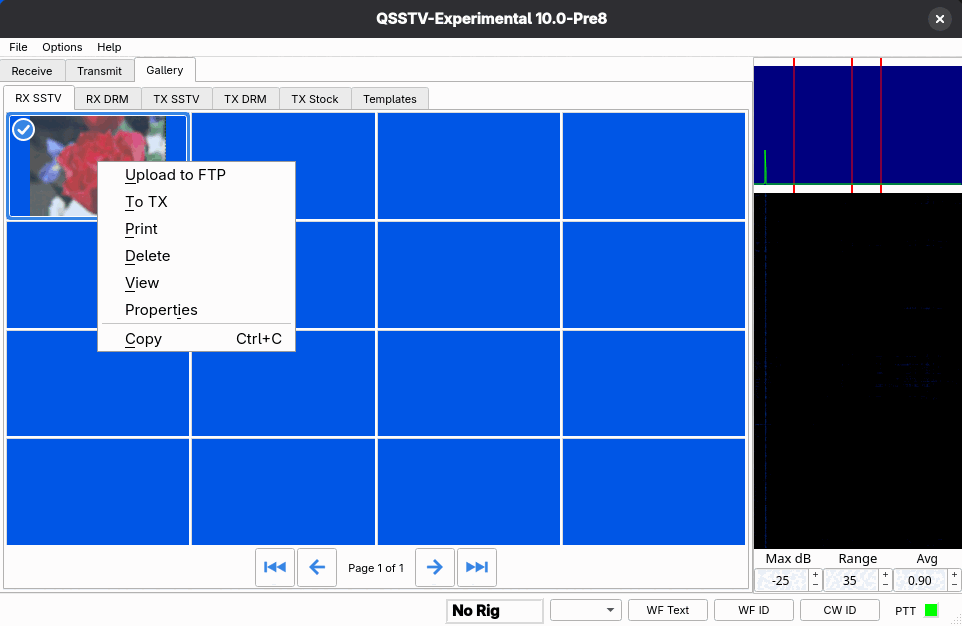
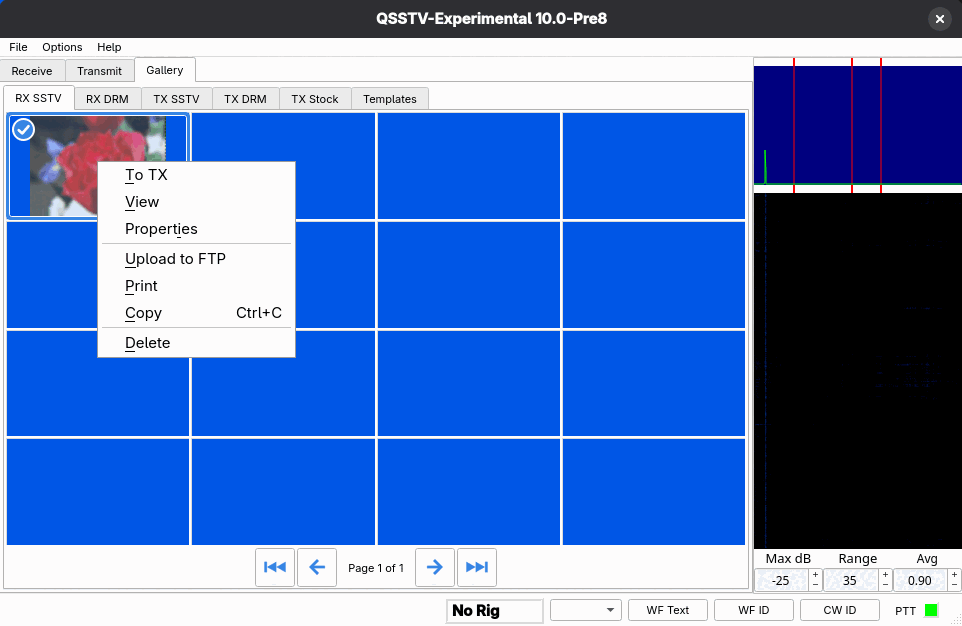
Group every picture right-click menu the same way
The other gallery tabs, the TX picture, the RX preview and the live RX picture got
the grouping the Templates menu has: make or change the picture; use and look at
it (To TX, View, Properties); send it somewhere (Upload to FTP, Print, Copy,
Paste); and Delete or Clear on its own at the bottom, so a slip of the mouse does
not delete anything. Load goes first on the TX picture and the RX preview (it sets
what they show) and with the file actions in the gallery (it adds a file to the
library). TX Stock starts with Edit picture. The menus are built from groups of
actions (a line between groups, never at an end or doubled).

tests/editor/app.sh checks the exact order of every menu and that no menu starts or
ends with a line or has two in a row, with Delete / Clear always last and alone (53
checks in all). The Gallery and Receive pages of the User's Guide describe the
pattern and the screenshot of the RX SSTV menu shows the new order.

Changed region(s): [[0.0936, 0.3642, 0.3119, 0.5767], [0.1247, 0.2732, 0.2495, 0.3339]]

diff --git a/documentation/userguide/pages/gallery.html b/documentation/userguide/pages/gallery.html
@@ -29,23 +29,31 @@ thumbnails is set in <a href="configuration.html#gui">Configuration &gt; Gui</a>
 through (first, previous, next and last page); the label shows <em>Page n of m</em>.</p>
 
 <h2>Right-click menu</h2>
-<figure><img src="../images/gallery-menu.png" alt="The gallery context menu with Upload to FTP, To TX, Print, Delete, View, Properties and Copy" loading="lazy"><figcaption>Right-click a thumbnail. The selection check mark is visible in its top-left corner.</figcaption></figure>
+<figure><img src="../images/gallery-menu.png" alt="The gallery context menu with To TX, View, Properties, then Upload to FTP, Print, Copy, and Delete at the bottom" loading="lazy"><figcaption>Right-click a thumbnail. The selection check mark is visible in its top-left corner.</figcaption></figure>
 
+<p>The menu is arranged in groups with a line between them, the same way on every tab: first the entries that make or change a picture, then the ones that use or look at it,
+then the ones that send it somewhere, and <span class="ui">Delete</span> on its own at the bottom.</p>
 <dl>
-<dt>Upload to FTP</dt><dd>Uploads the picture to the FTP server set up under <a href="configuration.html#ftp">FTP</a>.</dd>
 <dt>To TX</dt><dd>Loads the picture into the Transmit tab.</dd>
-<dt>Print</dt><dd>Prints the picture.</dd>
-<dt>Delete</dt><dd>Deletes the picture. By default you are asked to confirm; this can be changed in the Gui configuration page.</dd>
 <dt>View</dt><dd>Opens the picture in a viewer window. Use the mouse wheel to zoom smoothly and drag to pan.</dd>
 <dt>Properties</dt><dd>Shows file information about the picture.</dd>
+<dt>Upload to FTP</dt><dd>Uploads the picture to the FTP server set up under <a href="configuration.html#ftp">FTP</a> (received pictures).</dd>
+<dt>Print</dt><dd>Prints the picture.</dd>
 <dt>Copy (<kbd>Ctrl</kbd>+<kbd>C</kbd>)</dt><dd>Copies the picture to the clipboard. You can paste it, or a picture copied from anywhere else, into the
  Transmit tab or into TX Stock.</dd>
+<dt>Delete</dt><dd>Deletes the picture. By default you are asked to confirm; this can be changed in the Gui configuration page.</dd>
 </dl>
-<p>The menu differs a little between tabs; for example the TX Stock and Templates tabs offer <span class="ui">Load</span> and <span class="ui">Edit</span> in place of some of the entries above.
-<span class="ui">Edit picture</span> (TX Stock) opens a copy in your picture editor; on the Templates tab <span class="ui">Edit template</span> and <span class="ui">New template</span>
-open the <a href="template-editor.html">template editor</a>. See <a href="template-editor.html#pictures">Editing a picture</a>.</p>
-<p>The Templates menu is grouped: <span class="ui">New template</span> and <span class="ui">Edit template</span> first, then <span class="ui">To TX</span>, <span class="ui">View</span>
-and <span class="ui">Properties</span>, then <span class="ui">Load</span>, <span class="ui">Print</span> and <span class="ui">Copy</span>, and <span class="ui">Delete</span> on its own at the bottom.</p>
+<p>The menu differs a little between tabs, and the figure shows the RX SSTV tab:</p>
+<ul>
+<li><strong>TX SSTV and TX DRM:</strong> the same without <span class="ui">Upload to FTP</span>.</li>
+<li><strong>TX Stock</strong> starts with <span class="ui">Edit picture</span> (a copy is opened in your picture editor), and its third group is <span class="ui">Load</span> (add a picture from a file),
+ <span class="ui">Print</span>, <span class="ui">Copy</span> and <span class="ui">Paste</span> (add a picture from the clipboard).</li>
+<li><strong>Templates</strong> starts with <span class="ui">New template</span> and <span class="ui">Edit template</span>, which open the <a href="template-editor.html">template editor</a>; its third group is
+ <span class="ui">Load</span>, <span class="ui">Print</span> and <span class="ui">Copy</span>.</li>
+</ul>
+<p>The picture on the Transmit tab has its own menu in the same pattern: <span class="ui">Load</span> and <span class="ui">Edit picture</span>; <span class="ui">View</span>, <span class="ui">Properties</span> and
+<span class="ui">Reset zoom/pan</span>; <span class="ui">Print</span>, <span class="ui">Copy</span> and <span class="ui">Paste</span>; and <span class="ui">Delete</span>, which only takes the picture out of the transmit list (the file is kept).
+See <a href="template-editor.html#pictures">Editing a picture</a>.</p>
 
 <h2>Selecting several pictures</h2>
 <p>Click a thumbnail to select it; selected thumbnails are tinted and show a check mark. <kbd>Ctrl</kbd>+click adds or removes a single thumbnail and

diff --git a/documentation/userguide/pages/receive.html b/documentation/userguide/pages/receive.html
@@ -41,7 +41,7 @@
 </table>
 
 <h2 id="rightclick">Right-click menu</h2>
-<p>Right-click the picture for <span class="ui">View</span>, <span class="ui">Clear</span> and <span class="ui">Properties</span>. <span class="ui">Clear</span> does the same as the toolbar button.</p>
+<p>Right-click the picture for <span class="ui">View</span>, <span class="ui">Properties</span>, <span class="ui">Copy</span> and, on its own at the bottom, <span class="ui">Clear</span>, which does the same as the toolbar button.</p>
 
 <h2 id="sstv">SSTV settings</h2>
 <dl>

diff --git a/src/widgets/imageviewer.cpp b/src/widgets/imageviewer.cpp
@@ -604,95 +604,69 @@ void imageViewer::setType(thumbType tp)
       editAct->setText(tr("&Edit picture..."));
       editAct->setToolTip(tr("Edit a copy of this picture in your picture editor (Settings > GUI); the original is not changed"));
     }
+  // Every menu reads in groups, with a line between them: make or change the picture, use and look at it, send it somewhere, and
+  // remove it last on its own (so a slip of the mouse does not delete anything)
+  auto section=[this](std::initializer_list<QAction *> actions)
+  {
+    if(!popup->actions().isEmpty()) popup->addSeparator();
+    for(QAction *a : actions) popup->addAction(a);
+  };
   switch(tp)
     {
     case EXTVIEW:
-      popup->addAction(zoomInAct);
-      popup->addAction(zoomOutAct);
-      popup->addAction(propertiesAct);
+      section({zoomInAct,zoomOutAct,propertiesAct});
+      section({copyAct});
       break;
 
     case RXIMG:
-      popup->addAction(viewAct);
-      popup->addAction(clearAct);
-      popup->addAction(propertiesAct);
+      section({viewAct,propertiesAct});
+      section({copyAct});
+      section({clearAct});
       break;
 
     case TXIMG:
-      popup->addAction(loadAct);
-      popup->addAction(editAct);
-      popup->addAction(printAct);
-      popup->addAction(viewAct);
-      popup->addAction(propertiesAct);
-      popup->addAction(resetFramingAct);
-      popup->addAction(deleteAct);   // removes the image (or grid segment) from TX, the file is kept
+      // Delete takes the image (or grid segment) out of TX, the file is kept
+      section({loadAct,editAct});
+      section({viewAct,propertiesAct,resetFramingAct});
+      section({printAct,copyAct,pasteAct});
+      section({deleteAct});
       break;
 
     case PREVIEW:
-      popup->addAction(loadAct);
-      popup->addAction(toTXAct);
-      popup->addAction(viewAct);
-      popup->addAction(propertiesAct);
+      section({loadAct});
+      section({toTXAct,viewAct,propertiesAct});
+      section({copyAct});
       break;
 
     case RXSSTVTHUMB:
     case RXDRMTHUMB:
-      popup->addAction(uploadAct);
-      popup->addAction(toTXAct);
-      popup->addAction(printAct);
-      popup->addAction(deleteAct);
-      popup->addAction(viewAct);
-      popup->addAction(propertiesAct);
+      section({toTXAct,viewAct,propertiesAct});
+      section({uploadAct,printAct,copyAct});
+      section({deleteAct});
       break;
+
     case TXSSTVTHUMB:
     case TXDRMTHUMB:
-      popup->addAction(toTXAct);
-      popup->addAction(printAct);
-      popup->addAction(deleteAct);
-      popup->addAction(viewAct);
-      popup->addAction(propertiesAct);
+      section({toTXAct,viewAct,propertiesAct});
+      section({printAct,copyAct});
+      section({deleteAct});
       break;
 
     case TXSTOCKTHUMB:
-      popup->addAction(loadAct);
-      popup->addAction(toTXAct);
-      popup->addAction(editAct);
-      popup->addAction(printAct);
-      popup->addAction(deleteAct);
-      popup->addAction(viewAct);
-      popup->addAction(propertiesAct);
+      // a copy of a picture is edited in your picture editor; Load adds a picture from a file, Paste one from the clipboard
+      section({editAct});
+      section({toTXAct,viewAct,propertiesAct});
+      section({loadAct,printAct,copyAct,pasteAct});
+      section({deleteAct});
       break;
+
     case TEMPLATETHUMB:
-      // making and changing templates first (pictures are edited in an external editor, only templates are created here),
-      // then using and looking at one, then the file actions, and Delete on its own at the bottom
-      popup->addAction(newAct);
-      popup->addAction(editAct);
-      popup->addSeparator();
-      popup->addAction(toTXAct);
-      popup->addAction(viewAct);
-      popup->addAction(propertiesAct);
-      popup->addSeparator();
-      popup->addAction(loadAct);
-      popup->addAction(printAct);
-      popup->addAction(copyAct);
-      popup->addSeparator();
-      popup->addAction(deleteAct);
+      // making and changing templates first (pictures are edited in an external editor, only templates are created here)
+      section({newAct,editAct});
+      section({toTXAct,viewAct,propertiesAct});
+      section({loadAct,printAct,copyAct});
+      section({deleteAct});
       break;
-    }
-  if(tp==TEMPLATETHUMB)
-    {
-      // the menu is complete: Copy sits with the file actions
-    }
-  else if(tp==TXIMG || tp==TXSTOCKTHUMB)
-    {
-      popup->addSeparator();
-      popup->addAction(copyAct);
-      popup->addAction(pasteAct);
-    }
-  else
-    {
-      popup->addSeparator();
-      popup->addAction(copyAct);
     }
   popupEnabled=true;
 
@@ -1085,11 +1059,6 @@ void imageViewer::slotNew()
 }
 
 
-void imageViewer::slotPrint()
-{
-}
-
-
 void imageViewer::slotUploadFTP()
 {
   QString remoteDir;
@@ -1105,6 +1074,11 @@ void imageViewer::slotUploadFTP()
     }
   if (!remoteDir.isEmpty())
     dispatcherPtr->uploadToRXServer(remoteDir, imageFileName);
+}
+
+
+void imageViewer::slotPrint()
+{
 }
 
 

diff --git a/tests/editor/app.cpp b/tests/editor/app.cpp
@@ -339,16 +339,41 @@ int main(int argc, char **argv)
       return l;
     };
     imageViewer cell;
-    cell.init(imageViewer::TEMPLATETHUMB);
-    const QStringList templatesMenu = {"New template...", "Edit template...", "-", "To TX", "View", "Properties", "-", "Load", "Print", "Copy", "-", "Delete"};
-    check(entries(cell) == templatesMenu, "Templates: New and Edit first, then To TX / View / Properties, then Load / Print / Copy, Delete alone at the bottom (" + entries(cell).join(" | ") + ")");
+    struct { imageViewer::thumbType type; const char *name; QStringList entries; } menus[] = {
+      {imageViewer::TEMPLATETHUMB, "Templates", {"New template...", "Edit template...", "-", "To TX", "View", "Properties", "-", "Load", "Print", "Copy", "-", "Delete"}},
+      {imageViewer::TXSTOCKTHUMB, "TX Stock", {"Edit picture...", "-", "To TX", "View", "Properties", "-", "Load", "Print", "Copy", "Paste", "-", "Delete"}},
+      {imageViewer::RXSSTVTHUMB, "RX SSTV", {"To TX", "View", "Properties", "-", "Upload to FTP", "Print", "Copy", "-", "Delete"}},
+      {imageViewer::RXDRMTHUMB, "RX DRM", {"To TX", "View", "Properties", "-", "Upload to FTP", "Print", "Copy", "-", "Delete"}},
+      {imageViewer::TXSSTVTHUMB, "TX SSTV", {"To TX", "View", "Properties", "-", "Print", "Copy", "-", "Delete"}},
+      {imageViewer::TXDRMTHUMB, "TX DRM", {"To TX", "View", "Properties", "-", "Print", "Copy", "-", "Delete"}},
+      {imageViewer::TXIMG, "the TX picture", {"Load", "Edit picture...", "-", "View", "Properties", "Reset zoom/pan", "-", "Print", "Copy", "Paste", "-", "Delete"}},
+      {imageViewer::PREVIEW, "the RX preview on the TX tab", {"Load", "-", "To TX", "View", "Properties", "-", "Copy"}},
+      {imageViewer::RXIMG, "the live RX picture", {"View", "Properties", "-", "Copy", "-", "Clear"}},
+      {imageViewer::EXTVIEW, "the picture viewer window", {"Zoom In (+)", "Zoom Out (-)", "Properties", "-", "Copy"}},
+    };
+    for (const auto &m : menus)
+      {
+        cell.init(m.type);
+        check(entries(cell) == m.entries, QString("%1: %2").arg(m.name, entries(cell).join(" | ")));
+      }
+    // however they differ, the groups are always separated by a single line, never at an end, and Delete / Clear is last on its own
+    bool shape = true;
+    for (const auto &m : menus)
+      {
+        cell.init(m.type);
+        const QStringList e = entries(cell);
+        shape &= !e.isEmpty() && e.first() != "-" && e.last() != "-";
+        for (int i = 1; i < e.size(); i++) shape &= !(e[i] == "-" && e[i - 1] == "-");
+        for (int i = 0; i < e.size(); i++)
+          if (e[i] == "Delete" || e[i] == "Clear") shape &= i == e.size() - 1 && i > 0 && e[i - 1] == "-";
+      }
+    check(shape, "no menu starts or ends with a line or has two in a row, and Delete / Clear sit last, alone");
+    // a viewer that changes type leaves nothing of the old menu behind
     cell.init(imageViewer::TXSTOCKTHUMB);
-    const QStringList stockMenu = {"Load", "To TX", "Edit picture...", "Print", "Delete", "View", "Properties", "-", "Copy", "Paste"};
-    check(entries(cell) == stockMenu, "TX Stock: unchanged (" + entries(cell).join(" | ") + ")");
     cell.init(imageViewer::TEMPLATETHUMB);
-    check(entries(cell) == templatesMenu, "switching a viewer between types leaves no stale separators or entries behind");
-    cell.init(imageViewer::RXSSTVTHUMB);
-    check(entries(cell) == QStringList({"Upload to FTP", "To TX", "Print", "Delete", "View", "Properties", "-", "Copy"}), "RX pictures: unchanged (" + entries(cell).join(" | ") + ")");
+    cell.init(imageViewer::RXIMG);
+    cell.init(imageViewer::TEMPLATETHUMB);
+    check(entries(cell) == menus[0].entries, "switching a viewer between types leaves no stale separators or entries behind");
   }
 
   printf("\n%d passed, %d failed\n", passed, failed);
